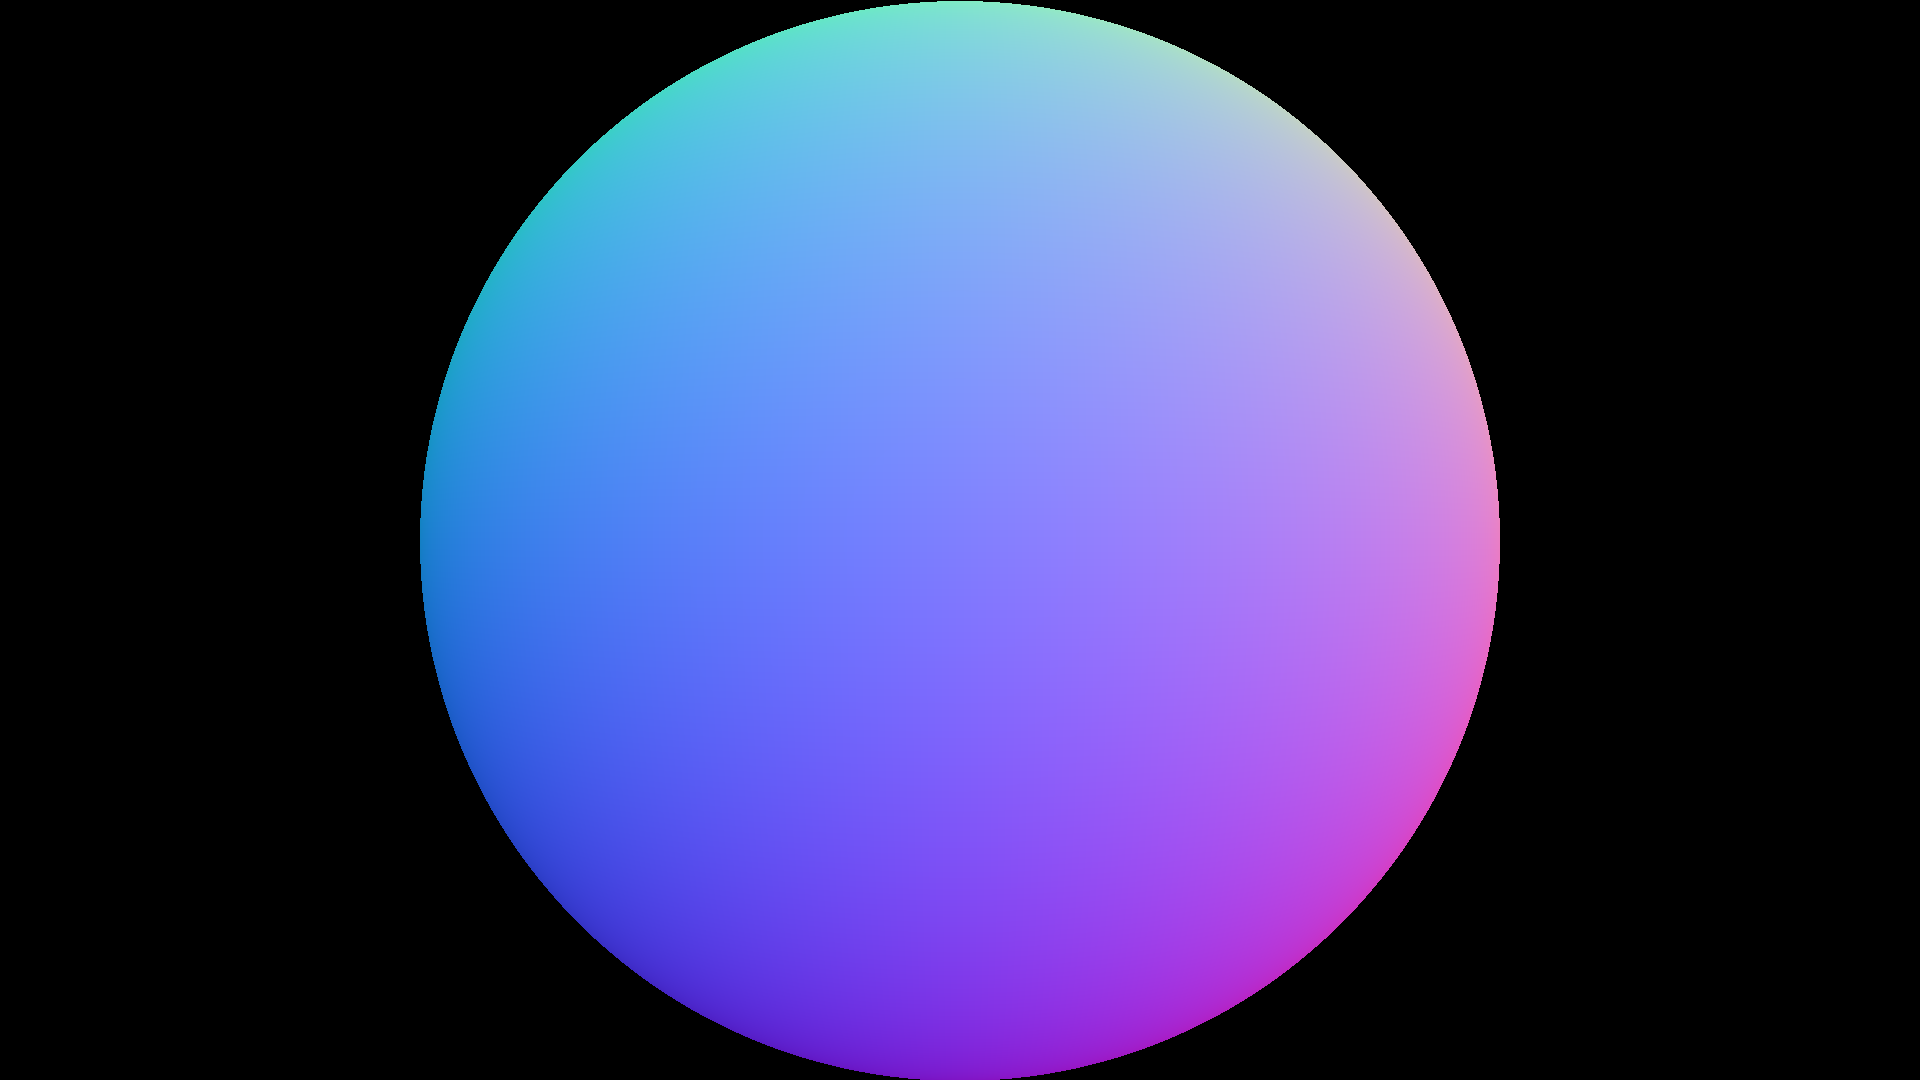
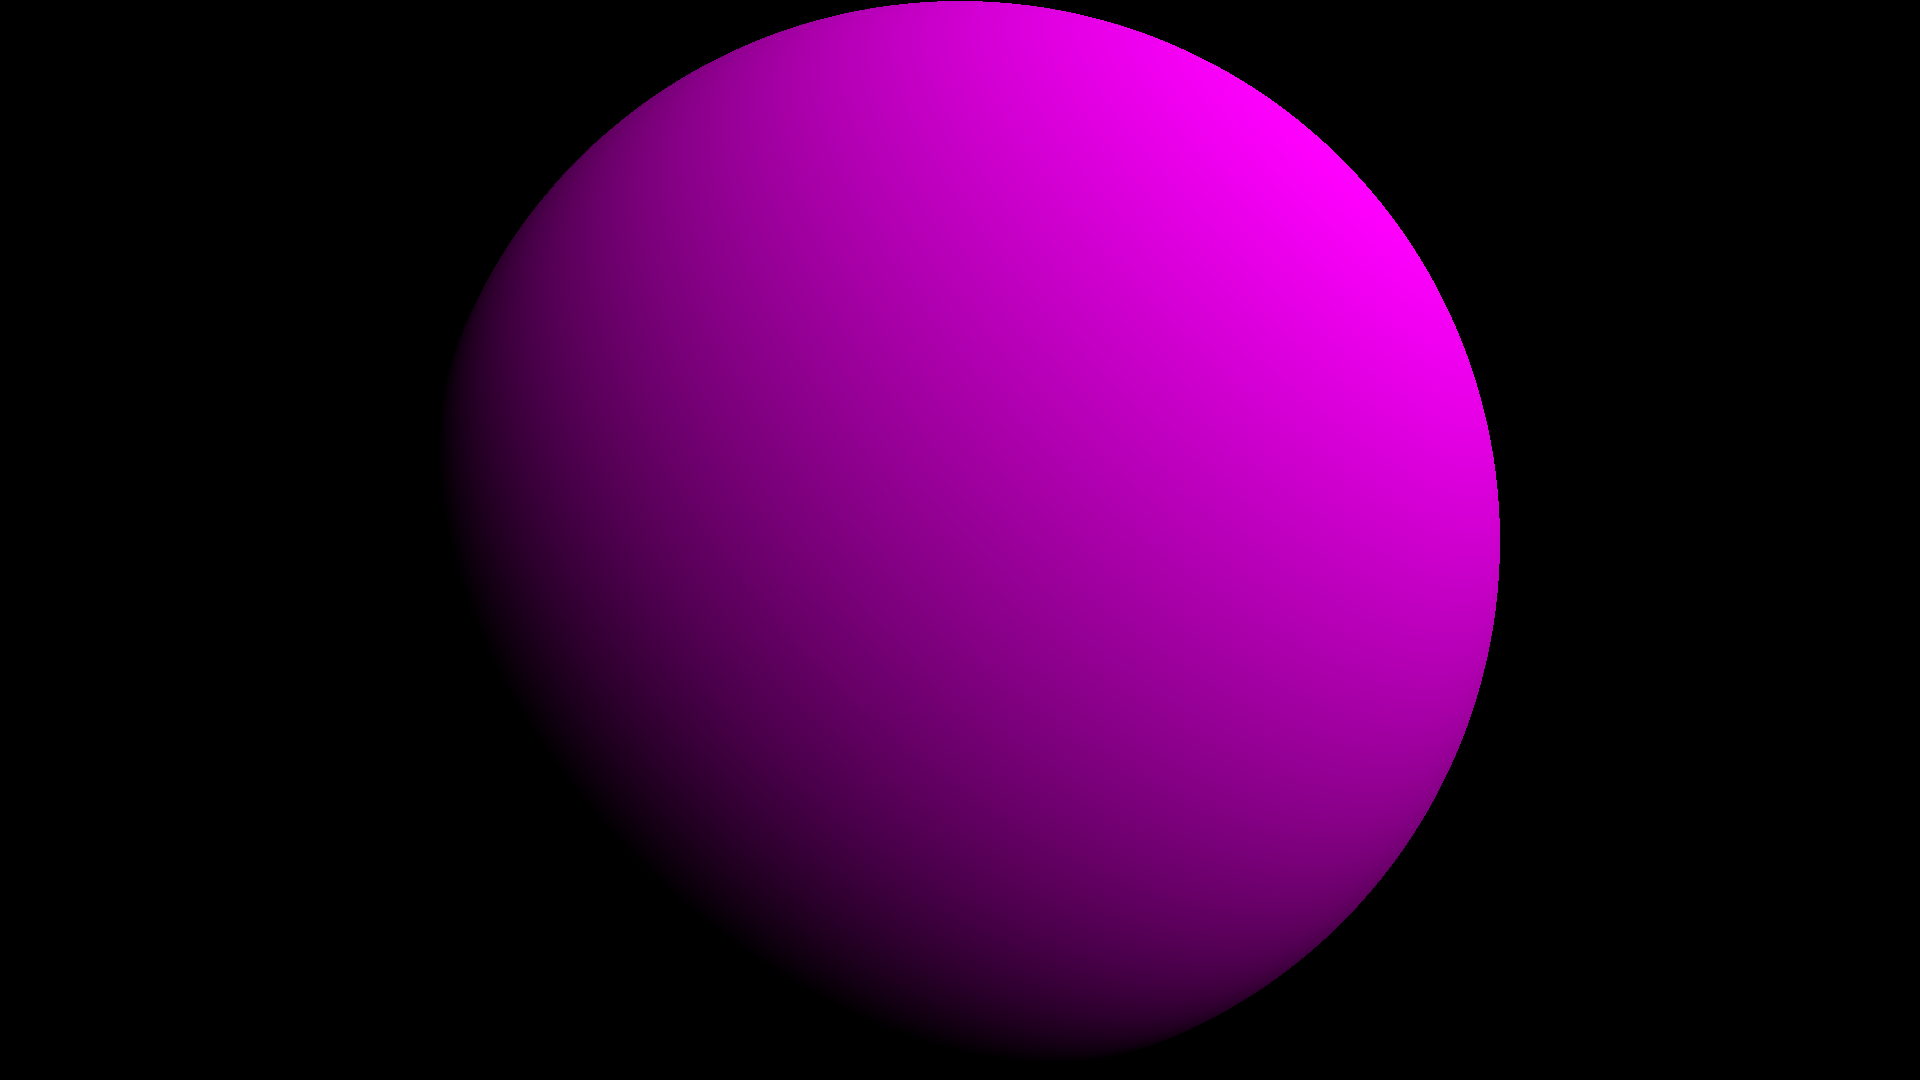
Simplify material model
Renders correctly but doesn't look very nice

diff --git a/src/material.rs b/src/material.rs
@@ -1,13 +1,14 @@
 /**
- * UE4-like material model defined by roughness, metallic,
+ * UE4-like material model defined by roughness, metallic, and albedo
  */
-use std::f32::consts;
 use crate::math::Vec3;
-use crate::Color3;
+use crate::{Ray, Color3};
 use nalgebra_glm as glm;
 
 // TODO: ior
 // TODO: textures
+// TODO: emissive
+#[derive(Debug, Copy, Clone)]
 pub struct Material {
     pub roughness: f32,
     pub metallic: f32,
@@ -23,43 +24,63 @@ impl Material {
     }
 
     // TODO: texture coordinates (2D and 3D)
-    pub fn shade(&self, normal: &Vec3, light_dir: &Vec3, view_dir: &Vec3) -> Color3 {
+    pub fn shade(&self, ray: &Ray, normal: &Vec3, dir_to_light: &Vec3) -> Color3 {
+        let dir_to_cam = -ray.direction;
+        let nol = (glm::dot(normal, dir_to_light) as f32).max(0.0);
 
-        // Cook-Torrance microfacet specular
-        let half = glm::normalize(&(light_dir + view_dir));
-        let alpha = self.roughness * self.roughness;
-        let alpha_sq = alpha * alpha;
+        let diffuse = self.albedo * nol;
 
-        let nol = glm::dot(&normal, &light_dir) as f32;
-        let nov = glm::dot(&normal, &view_dir) as f32;
-        let noh = glm::dot(&normal, &half) as f32;
-        let voh = glm::dot(&view_dir, &half) as f32;
+        let exponent = 100;
 
-        // D: normal distribution function
-        let d_denom = noh * noh * (alpha_sq * alpha_sq - 1.0) + 1.0;
-        let d = alpha_sq / (consts::PI * d_denom * d_denom);
+        let reflect = glm::reflect_vec(&(-dir_to_light), normal);
+        let vor = (glm::dot(&dir_to_cam, &reflect) as f32).max(0.0);
+        let spec = vor.powi(exponent) * nol;
+        let specular = Color3::new(spec, spec, spec);
 
-        // G: geometry/self-shadowing
-        let k = ((self.roughness + 1.0) * (self.roughness + 1.0)) / 8.0;
-        let g1_l = nol / (nol * (1.0 - k) + k);
-        let g1_v = nov / (nov * (1.0 - k) + k);
-        let g = g1_l * g1_v;
+        (diffuse + specular).clamped()
 
-        // F: schlick's fresnel approximation with a spherical gaussian
-        let f0 = 0.04;
-        let f = f0 + (1.0 - f0) * (2.0 as f32).powf((-5.55473*voh - 6.98316)*voh);
+        // // Cook-Torrance microfacet specular
+        // let half = glm::normalize(&(light_dir + view_dir));
+        // let alpha = self.roughness * self.roughness;
+        // let alpha_sq = alpha * alpha;
 
-        let specular_color = Color3 {
-            r: f0 * (1.0 - self.metallic) + self.albedo.r * self.metallic,
-            g: f0 * (1.0 - self.metallic) + self.albedo.g * self.metallic,
-            b: f0 * (1.0 - self.metallic) + self.albedo.b * self.metallic,
-        };
-        let specular_amount = (d * f * g) / (4.0 * nol * nov);
+        // let nol = glm::dot(&normal, &light_dir) as f32;
+        // let nov = glm::dot(&normal, &view_dir) as f32;
+        // let noh = glm::dot(&normal, &half) as f32;
+        // let voh = glm::dot(&view_dir, &half) as f32;
 
-        // Lambertian diffuse
-        let diffuse_color = self.albedo / consts::PI;
-        let diffuse_amount = 1.0 - f;
+        // // D: normal distribution function
+        // let d_denom = noh * noh * (alpha_sq * alpha_sq - 1.0) + 1.0;
+        // let d = alpha_sq / (consts::PI * d_denom * d_denom);
 
-        diffuse_amount * diffuse_color + specular_amount * specular_color
+        // // G: geometry/self-shadowing
+        // let k = ((self.roughness + 1.0) * (self.roughness + 1.0)) / 8.0;
+        // let g1_l = nol / (nol * (1.0 - k) + k);
+        // let g1_v = nov / (nov * (1.0 - k) + k);
+        // let g = g1_l * g1_v;
+
+        // // F: schlick's fresnel approximation with a spherical gaussian
+        // let f0 = 0.04;
+        // let f = f0 + (1.0 - f0) * (2.0 as f32).powf((-5.55473*voh - 6.98316)*voh);
+
+        // let specular_amount = (d * f * g) / (4.0 * nol * nov);
+        // let specular_color = Color3 {
+        //     r: f0 * (1.0 - self.metallic) + self.albedo.r * self.metallic,
+        //     g: f0 * (1.0 - self.metallic) + self.albedo.g * self.metallic,
+        //     b: f0 * (1.0 - self.metallic) + self.albedo.b * self.metallic,
+        // };
+
+        // // Lambertian diffuse
+        // let diffuse_amount = 1.0 - f;
+        // let diffuse_color = self.albedo / consts::PI;
+
+        // diffuse_amount * diffuse_color + specular_amount * specular_color
+    }
+}
+
+// a rough, non-metallic pink
+impl Default for Material {
+    fn default() -> Self {
+        Material::new(1.0, 0.0, Color3::new(1.0, 0.0, 1.0))
     }
 }

diff --git a/src/primitive/sphere.rs b/src/primitive/sphere.rs
@@ -1,18 +1,21 @@
 use crate::math::*;
-use crate::ray::{Ray, Hit};
+use crate::{Ray, Hit, Material};
 use nalgebra_glm as glm;
 use super::Primitive;
+use std::sync::Arc;
 
 #[derive(Debug)]
 pub struct Sphere {
     pub center: Vec3,
     pub radius: Scalar,
+    pub material: Arc<Material>,
 }
 impl Sphere {
-    pub const fn new(center: Vec3, radius: Scalar) -> Self {
+    pub fn new(center: Vec3, radius: Scalar, material: &Arc<Material>) -> Self {
         Sphere {
             center: center,
             radius: radius,
+            material: material.clone(),
         }
     }
 }
@@ -36,7 +39,7 @@ impl Primitive for Sphere {
             let dist = if dist1 >= 0.0 { dist1 } else { dist2 };
             if dist >= 0.0 {
                 Some(
-                    Hit::new(dist, glm::normalize(&(ray.at(dist) - self.center)))
+                    Hit::new(dist, glm::normalize(&(ray.at(dist) - self.center)), &self.material)
                 )
             } else {
                 None
@@ -50,14 +53,15 @@ impl Primitive for Sphere {
 #[cfg(test)]
 mod tests {
     use crate::math::*;
-    use crate::ray::Ray;
+    use crate::{Ray, Material};
     use super::{Primitive, Sphere};
     use nalgebra_glm as glm;
+    use std::sync::Arc;
 
     #[test]
     fn sphere_at_origin_closest_intersection() {
         let ray = Ray::new(Vec3::new(0.0, 0.0, -2.0), *consts::FORWARD);
-        let sphere = Sphere::new(*consts::ORIGIN, 1.0);
+        let sphere = Sphere::new(*consts::ORIGIN, 1.0, &Arc::new(Material::default()));
         let hit = sphere.nearest_intersection(&ray).unwrap();
 
         assert!((hit.distance - 1.0).abs() <= consts::EPSILON);
@@ -67,7 +71,7 @@ mod tests {
     #[test]
     fn sphere_at_origin_miss() {
         let ray = Ray::new(Vec3::new(0.0, 0.0, -2.0), glm::normalize(&Vec3::new(0.0, 1.0, 1.0)));
-        let sphere = Sphere::new(*consts::ORIGIN, 1.0);
+        let sphere = Sphere::new(*consts::ORIGIN, 1.0, &Arc::new(Material::default()));
         let hit = sphere.nearest_intersection(&ray);
         assert!(hit.is_none());
     }
@@ -75,7 +79,7 @@ mod tests {
     #[test]
     fn sphere_at_origign_cull_rear_intersections() {
         let ray = Ray::new(*consts::ORIGIN, *consts::FORWARD);
-        let sphere = Sphere::new(*consts::ORIGIN, 1.0);
+        let sphere = Sphere::new(*consts::ORIGIN, 1.0, &Arc::new(Material::default()));
         let hit = sphere.nearest_intersection(&ray).unwrap();
 
         assert!((hit.distance - 1.0).abs() <= consts::EPSILON);
@@ -85,7 +89,7 @@ mod tests {
     #[test]
     fn sphere_translated_closest_intersection() {
         let ray = Ray::new(*consts::ORIGIN, *consts::FORWARD);
-        let sphere = Sphere::new(Vec3::new(0.0, 0.0, 11.0), 1.0);
+        let sphere = Sphere::new(Vec3::new(0.0, 0.0, 11.0), 1.0, &Arc::new(Material::default()));
         let hit = sphere.nearest_intersection(&ray).unwrap();
 
         println!("{:?} {:?}", sphere, hit);

diff --git a/src/color.rs b/src/color.rs
@@ -1,9 +1,9 @@
 use crate::math::Vec3;
 use nalgebra_glm as glm;
-use std::ops::{Add, Sub, Mul, Div};
+use std::ops::{Add, AddAssign, Sub, SubAssign, Mul, MulAssign, Div, DivAssign};
 use rgb::RGB8;
 
-#[derive(Copy, Clone)]
+#[derive(Copy, Clone, Debug)]
 pub struct Color3 {
     pub r: f32,
     pub g: f32,
@@ -16,6 +16,20 @@ impl Color3 {
             r: r,
             g: g,
             b: b,
+        }
+    }
+    #[inline]
+    pub fn clamp(&mut self) {
+        self.r = glm::clamp_scalar(self.r, 0.0, 1.0);
+        self.g = glm::clamp_scalar(self.g, 0.0, 1.0);
+        self.b = glm::clamp_scalar(self.b, 0.0, 1.0);
+    }
+    #[inline]
+    pub fn clamped(&self) -> Self {
+        Color3 {
+            r: glm::clamp_scalar(self.r, 0.0, 1.0),
+            g: glm::clamp_scalar(self.g, 0.0, 1.0),
+            b: glm::clamp_scalar(self.b, 0.0, 1.0),
         }
     }
     #[inline]
@@ -63,6 +77,13 @@ impl Add for Color3 {
         }
     }
 }
+impl AddAssign for Color3 {
+    fn add_assign(&mut self, rhs: Self) {
+        self.r += rhs.r;
+        self.g += rhs.g;
+        self.b += rhs.b;
+    }
+}
 impl Sub for Color3 {
     type Output = Self;
 
@@ -72,6 +93,13 @@ impl Sub for Color3 {
             g: self.g - rhs.g,
             b: self.b - rhs.b,
         }
+    }
+}
+impl SubAssign for Color3 {
+    fn sub_assign(&mut self, rhs: Self) {
+        self.r -= rhs.r;
+        self.g -= rhs.g;
+        self.b -= rhs.b;
     }
 }
 impl Mul for Color3 {
@@ -101,6 +129,13 @@ impl Mul<Color3> for f32 {
 
     fn mul(self, rhs: Color3) -> Color3 {
         rhs * self
+    }
+}
+impl MulAssign for Color3 {
+    fn mul_assign(&mut self, rhs: Self) {
+        self.r *= rhs.r;
+        self.g *= rhs.g;
+        self.b *= rhs.b;
     }
 }
 impl Div for Color3 {
@@ -134,5 +169,12 @@ impl Div<Color3> for f32 {
             g: self / rhs.g,
             b: self / rhs.b,
         }
+    }
+}
+impl DivAssign for Color3 {
+    fn div_assign(&mut self, rhs: Self) {
+        self.r /= rhs.r;
+        self.g /= rhs.g;
+        self.b /= rhs.b;
     }
 }

diff --git a/src/screen.rs b/src/screen.rs
@@ -1,6 +1,6 @@
 use crate::math::*;
-use crate::{Camera, World, Ray};
-use crate::Color3;
+use crate::{Camera, World, Ray, Color3};
+use nalgebra_glm as glm;
 use rgb::RGB8;
 #[cfg(feature="parallel")]
 use rayon::prelude::*;
@@ -45,7 +45,6 @@ impl Screen {
     }
 
     // TODO: trace rays instead of only casting
-    // TODO: shade based on material
     pub fn render(&self, camera: &Camera, world: &World) -> Vec<RGB8> {
         // floating-point intermediate format, 0-1
         let black = Color3::new(0.0, 0.0, 0.0);
@@ -57,12 +56,15 @@ impl Screen {
         #[cfg(not(feature="parallel"))]
         let it = rays.zip(pixels.as_mut_slice().into_iter()); // TODO: zip_eq for std iterators?
 
-        let one = Vec3::new(1.0,1.0,1.0);
+        let dir_to_light = glm::normalize(&Vec3::new(1.0, 1.0, 1.0)); // mock directional light
         it.for_each(|(r, p): (Ray, &mut Color3)| {
             if let Some(hit) = world.cast(&r) {
-                // Rescale hit.normal, which is in the range [-1, 1], into the range [0, 1]
-                let n = Color3::from_vec3((hit.normal + one) / 2.0);
-                *p = n;
+                let color = hit.material.shade(&r, &hit.normal, &dir_to_light);
+                if color.r <= 1.0 && color.g <= 1.0 && color.b <= 1.0 {
+                    *p = color;
+                } else {
+                    dbg!(color);
+                }
             } else {
                 *p = black;
             }

diff --git a/examples/spherecast.rs b/examples/spherecast.rs
@@ -1,22 +1,27 @@
 extern crate raytracer;
 use raytracer::math::*;
 use raytracer::primitive::Sphere;
-use raytracer::{Camera, Screen, World};
+use raytracer::{Camera, Screen, World, Material};
 use nalgebra_glm as glm;
 
-use std::{path::Path, fs::File, io::BufWriter};
+use std::{path::Path, fs::File, io::BufWriter, sync::Arc};
 use png::HasParameters;
 
+fn slice_bytes<T>(slice: &[T]) -> &[u8] {
+    unsafe {
+        std::slice::from_raw_parts(
+            slice.as_ptr() as *const u8,
+            slice.len() * std::mem::size_of::<T>())
+    }
+}
+
 fn main() {
-    let sphere = Sphere::new(glm::zero(), 1.0);
+    let sphere = Sphere::new(glm::zero(), 1.0, &Arc::new(Material::default()));
     let world = World { primitives: vec![Box::new(sphere)] };
     let camera = Camera::new(Vec3::new(0.0, 0.0, 2.0), glm::quat_identity(), consts::FRAC_PI_3, 16.0/9.0, None);
     let screen = Screen::new(1920, 1080);
     let image = screen.render(&camera, &world);
-    let image_bytes: Vec<u8> = image.into_iter()
-        .map(|rgb| vec![rgb.r, rgb.g, rgb.b])
-        .flatten()
-        .collect();
+    let image_bytes = slice_bytes(&image);
 
     let path = Path::new(r"out/spherecast.png");
     let file = File::create(path).unwrap();

diff --git a/src/ray.rs b/src/ray.rs
@@ -1,4 +1,6 @@
 use crate::math::*;
+use crate::Material;
+use std::sync::Arc;
 
 #[derive(Debug)]
 pub struct Ray {
@@ -18,17 +20,19 @@ impl Ray {
     }
 }
 
-#[derive(Debug)]
+#[derive(Debug, Clone)]
 pub struct Hit {
     pub distance: Scalar,
     pub normal: Vec3,
-    // TODO: more information (material, primitive id, etc)
+    pub material: Arc<Material>,
+    // TODO: more information (primitive id, etc)
 }
 impl Hit {
-    pub fn new(distance: Scalar, normal: Vec3) -> Self {
+    pub fn new(distance: Scalar, normal: Vec3, material: &Arc<Material>) -> Self {
         Hit {
             distance: distance,
             normal: normal,
+            material: material.clone(),
         }
     }
 }

diff --git a/src/world.rs b/src/world.rs
@@ -4,6 +4,7 @@ use ord_subset::OrdSubsetIterExt;
 
 pub struct World {
     pub primitives: Vec<Box<dyn Primitive + Send + Sync>>,
+    // TODO: lights
     // TODO: acceleration data structure
 }
 impl World {
